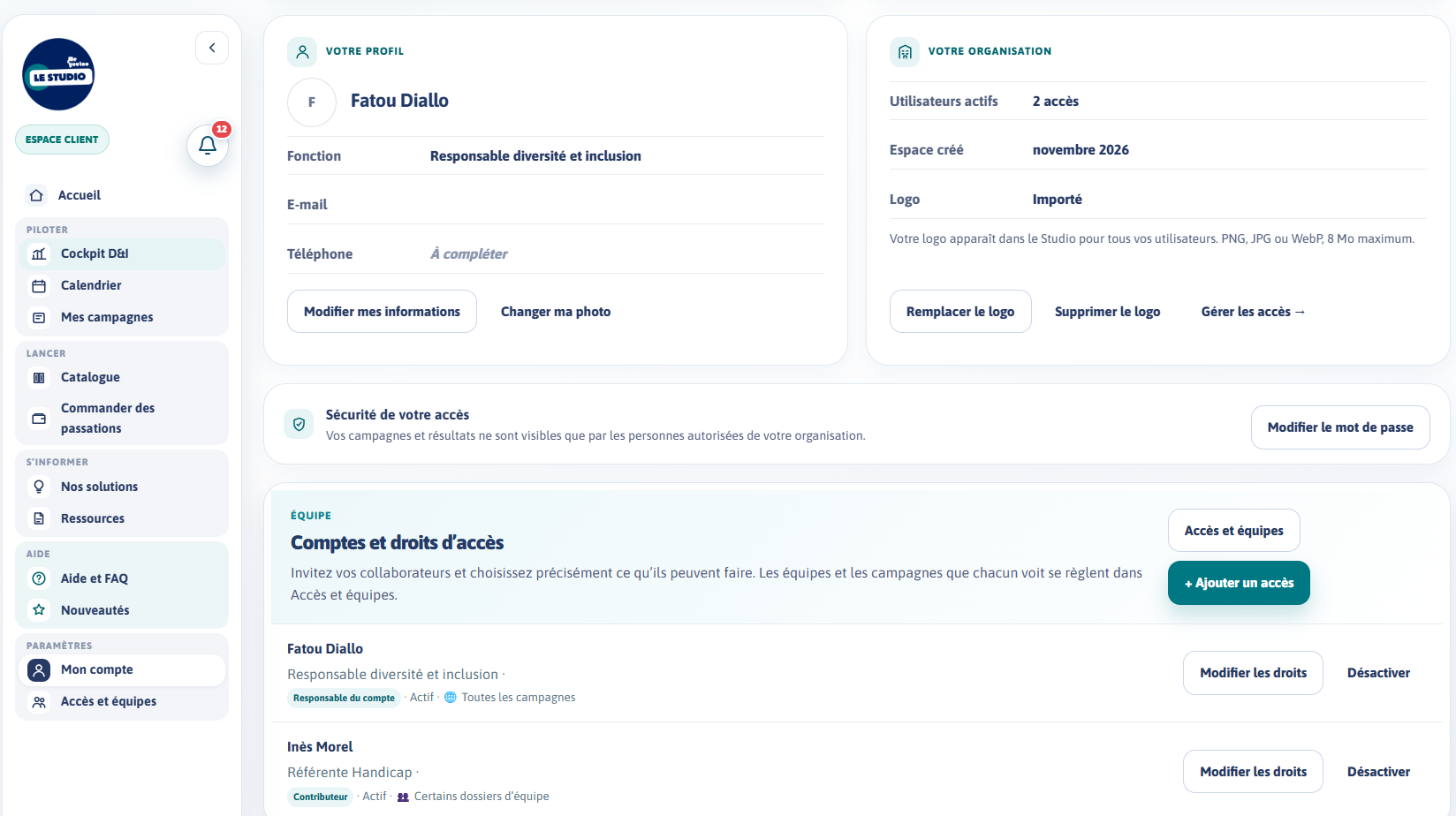
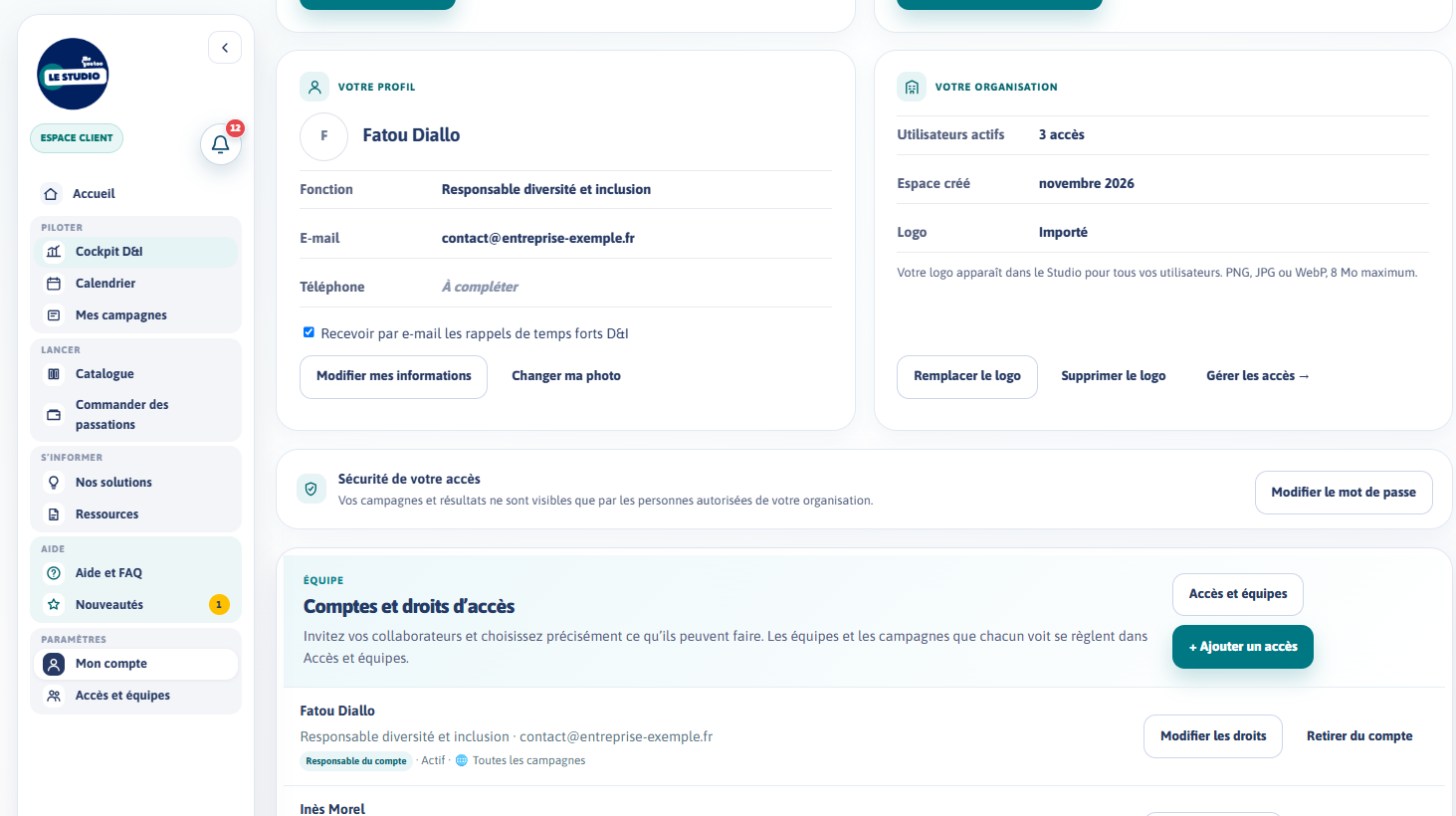
Tutos : Mon compte du 6 novembre pour Compte et accès

diff --git a/tutos/acces/index.html b/tutos/acces/index.html
@@ -20,11 +20,11 @@ window.TUTO={
   // Voix de Carole Michelon (enregistrée le 5 novembre 2026 en deux prises : plan 3 repris, niveau égalisé ; bruit de fond retiré, pauses ramenées à 1,2 s) ; « at » = début de chaque phrase.
   audio:'voix.mp3?v=1',
   scenes:[
-    {at:0,img:'ecran-1.png',box:[18.4,24.3,81.2,28.4],text:'Dans « Mon compte », retrouvez votre solde de passations, la validité de votre pack et votre formule. Le solde est commun à toute l’entreprise.'},
-    {at:8.75,img:'ecran-1.png',box:[18.4,55,40,43],text:'Votre profil regroupe votre fonction, votre e-mail et votre téléphone. Cliquez sur « Modifier mes informations » pour les tenir à jour, ou changez votre photo.'},
-    {at:17.81,img:'ecran-1.png',box:[59.7,55,39.9,43],text:'Ajoutez le logo de votre organisation : c’est important, car il s’affiche partout. Il apparaît dans le Studio pour tous vos utilisateurs, sur votre Bilan D&I et au centre de vos QR codes. Sans logo, le QR code porte celui de Me&YouToo.'},
-    {at:33.43,img:'ecran-2.png',box:[18.1,47,81.5,9.9],text:'Vos campagnes et vos résultats ne sont visibles que par les personnes autorisées de votre organisation. Votre mot de passe se change ici.'},
-    {at:41.51,img:'ecran-2.png',box:[18.1,59.2,81.5,40.8],text:'Pour inviter un collègue, cliquez sur « Ajouter un accès ». Chaque compte s’affiche ici, avec son niveau d’accès et ce qu’il peut voir.'},
+    {at:0,img:'ecran-1.png?v=2',box:[18.4,24.3,81.2,28.4],text:'Dans « Mon compte », retrouvez votre solde de passations, la validité de votre pack et votre formule. Le solde est commun à toute l’entreprise.'},
+    {at:8.75,img:'ecran-1.png?v=2',box:[18.4,55,40,43],text:'Votre profil regroupe votre fonction, votre e-mail et votre téléphone. Cliquez sur « Modifier mes informations » pour les tenir à jour, ou changez votre photo.'},
+    {at:17.81,img:'ecran-1.png?v=2',box:[59.7,55,39.9,43],text:'Ajoutez le logo de votre organisation : c’est important, car il s’affiche partout. Il apparaît dans le Studio pour tous vos utilisateurs, sur votre Bilan D&I et au centre de vos QR codes. Sans logo, le QR code porte celui de Me&YouToo.'},
+    {at:33.43,img:'ecran-2.png?v=2',box:[18.1,54.7,81.5,10],text:'Vos campagnes et vos résultats ne sont visibles que par les personnes autorisées de votre organisation. Votre mot de passe se change ici.'},
+    {at:41.51,img:'ecran-2.png?v=2',box:[18.1,66.5,81.5,33.5],text:'Pour inviter un collègue, cliquez sur « Ajouter un accès ». Chaque compte s’affiche ici, avec son niveau d’accès et ce qu’il peut voir.'},
     {at:48.63,img:'ecran-3.png',box:[35.4,9.8,29.4,36.5],text:'Renseignez son prénom, son nom, sa fonction et son e-mail professionnel, puis choisissez son niveau d’accès dans la liste.'},
     {at:56.09,img:'ecran-3.png',box:[35.4,49,29.2,43],text:'Les droits s’ajustent un par un si besoin. Cliquez ensuite sur « Créer et inviter » pour ouvrir son compte et l’inviter.'},
     {at:63.05,img:'ecran-4.png',box:[20.4,29.4,77.4,13.4],text:'Dans « Accès et équipes », trois principes : le niveau d’accès dit ce qu’une personne peut faire, le périmètre ce qu’elle voit, et les dossiers regroupent campagnes et actions.'},
